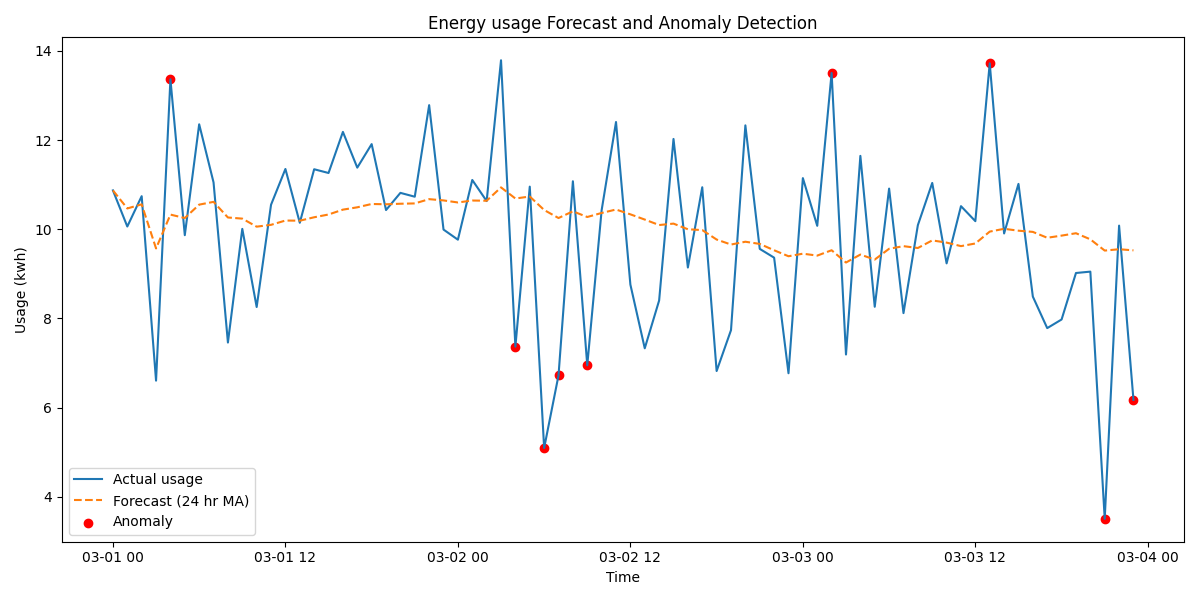
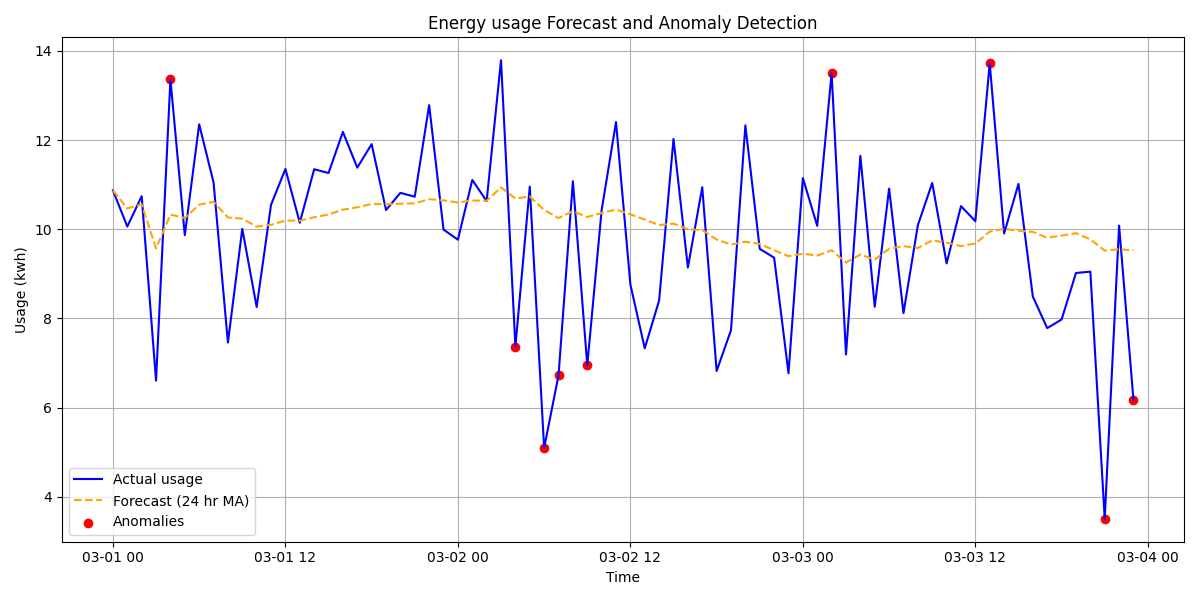
wrote the requirements.txt and made changes to the load_forecasting.py

diff --git a/src/load_forecasting.py b/src/load_forecasting.py
@@ -10,18 +10,29 @@ df['forecast'] = df['usage_kwh'].rolling(window=24, min_periods=1).mean()
 # Anomaly detection
 df['anomaly'] = abs(df['usage_kwh']- df['forecast']) > 3 # threshold in kwh
 
+# Load Factor: average usage / peak usage over 24-hour window
+df['rolling_avg'] = df['usage_kwh'].rolling(window=24).mean()
+df['rolling_peak'] = df['usage_kwh'].rolling(window=24).max()
+df['load_factor'] = (df['rolling_avg'] / df['rolling_peak']).fillna(0)
+
 # Save output
 df.to_csv('data/forecast_results.csv', index=False)
 
 # Plot
 plt.figure(figsize=(12,6))
-plt.plot(df['timestamp'], df['usage_kwh'], label='Actual usage')
-plt.plot(df['timestamp'], df['forecast'], label='Forecast (24 hr MA)', linestyle='--')
-plt.scatter(df[df['anomaly']]['timestamp'],df[df['anomaly']]['usage_kwh'], color='red', label='Anomaly')
+plt.plot(df['timestamp'], df['usage_kwh'], label='Actual usage', color='blue')
+plt.plot(df['timestamp'], df['forecast'], label='Forecast (24 hr MA)', linestyle='--', color='orange')
+plt.scatter(df[df['anomaly']]['timestamp'],df[df['anomaly']]['usage_kwh'], color='red', label='Anomalies')
 plt.title('Energy usage Forecast and Anomaly Detection')
 plt.xlabel('Time')
 plt.ylabel('Usage (kwh)')
 plt.legend()
+plt.grid(True)
 plt.tight_layout()
 plt.savefig('outputs/forecast_plot.png')
 plt.show()
+
+# Export to Excel: full data + summary stats
+with pd.ExcelWriter('outputs/load_summary.xlsx') as writer:
+    df.to_excel(writer, index=False, sheet_name='Full Data')
+    df.describe().to_excel(writer, sheet_name='Summary Stats')
